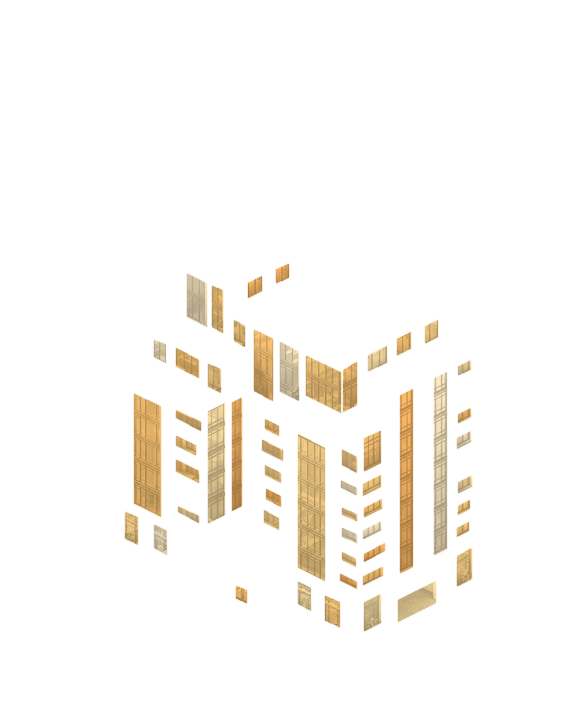
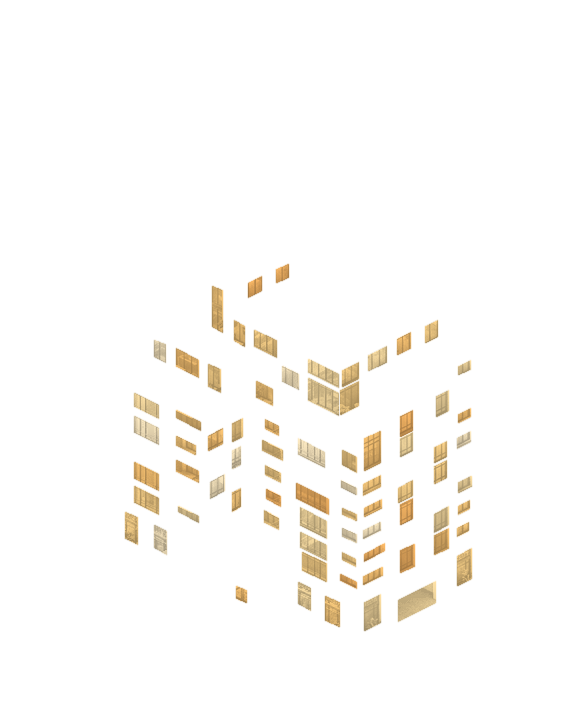
Night lights: the user's later edits (high rise, luxury condo, office, hospital)
The high rise is redrawn as many small windows with roof lamps; the
hospital's cross is a sign (the art's red) and its windows are warm.

diff --git a/plan.md b/plan.md
@@ -8,7 +8,8 @@
 ## Status
 
 - **Phase:** **Phase 10 — Construction Loop (in progress; zoom-not-swap camera + wheel overlay + opening celebration device-verified 2026-09-20)** — spec in [city_builder.md §8](city_builder.md). Phase 9 is effectively complete for content (catalog + art + land); its remaining themed-maps item stays open, its upgrade-tiers and events items are superseded/deferred by Phase 10, and the price-tuning-by-playtest next action carries into Phase 10 (prices are now the *total* a site is paid down to). Phase 9 as it stood: Rich Implementation & Graphics (in progress). Implementing the [city_builder.md](city_builder.md) catalog: **all 55 §3 buildings wired and sprite-backed** (added `gym` — services, 2×2, unlocked by `sports_field`, single variant) (71/73 beats — the 2 missing are the ratio-warning beats needing the §7 TriggerRule extension), `train_station` dropped (the rail can't be drawn coherently). Road-tile sprites done, non-square footprints fixed (#90), **land expansion shipped (device-verified)**, ✅-marker sync script live. **All sprites now affine-fit their footprints** — the original 16 dimension-mismatch flags are all cleared (15 by NB regeneration, `clinic` by re-footprinting 2×1); no squash placeholders remain. Phase 8 (the city_builder.md design doc) is complete. Phase 7's headless work is complete; the remaining device-verification sweep is owed — now doable on the local Android emulator (the web-sandbox no-emulator blocker no longer applies). Phase 6 left two deliberately-deferred sub-tracks: (a) selective DeepMind expansion (variety only, optional); (b) adaptive-system + mix-policy tuning (needs playtest data first). Live counts for the curriculum are in [curriculum.md](curriculum.md).
-- **Last updated:** 2026-10-03 (night lights: glows are warm, a new Sign kind keeps the art's colour)
+- **Last updated:** 2026-10-03 (night lights: the user's later edits to four sprites)
+- **Latest (2026-10-03, direct to `main`):** the user's further light edits committed — the high rise redrawn as many small windows with roof lamps, the luxury condo, an office building, two more hospital glows; the hospital's cross is a sign again (red, the art's colour) with its windows warm. Now 1,229 windows, 70 glows, 23 signs, 128 lamps.
 - **Last action (2026-10-03, direct to `main`):** **Night lights: glows go warm; signs keep their colour.** The user wanted every light warm except signs (the clinics' and hospital's crosses). "Glow" meant two things: windows that stay on all night, and things with a colour of their own. Now three shape kinds in [regions.json](tools/night_lights/regions.json): `w` window (warm, room hours), `g` glow (warm, all night), `s` **sign** (the art's own colour, all night). `build.py` writes a sign to `lights.json` as a glow, so the app is unchanged. Of the user's 91 glows, 23 became signs — the crosses and the clinic's glass sign panel (8), the aquarium's tanks and dome (8), the power station's plasma core (5), the reactor dome (2) — and 68 stay glows, now warm (clinic, hospital, fire and police station windows). The tanks, plasma and dome were kept in colour on my judgment after rendering both: warm turns them into flat orange panels. Review page: a third **Sign** button, G steps window → glow → sign. Browser tests 23 + 34 checks; no Dart change; 1178 tests pass.
 - **Prior action (2026-10-03, direct to `main`):** **Window lights: warm shades only.** The window palette in [nl_common.py](tools/night_lights/nl_common.py) had a neutral white and a cool blue-white among its eight colours for variety (303 of the 1,128 windows); the user found the blue ones an eyesore. Both are now warm (pale gold to amber) and all 87 lit sprites are re-baked (62 PNGs changed). Glows are untouched: they keep the art's own colour, so the 38 glows drawn on blue glass (aquarium, clinics, hospital, power plant, power station) still come out blue — the user's call whether those should be warmed too. No Dart change; 1178 tests pass; checked on the Pixel 7 AVD at 8 pm.
 - **Prior action (2026-10-03, direct to `main`):** **Street lanterns: kerbs on a checkerboard, not straight tiles only.** The user spotted a part of Sam's town with no lamps at all. Cause, measured on the town pulled from the emulator's database: [lampSpots](lib/domain/city/street_lamps.dart) lit only straight tiles on even coordinates, and the road rings round neighbouring buildings merge into two-tile-wide roads and tight grids where every tile is a junction (37 junctions, 25 bends, 7 dead ends, 26 odd straights against 24 lit tiles of 119) — the built-up middle got the fewest lamps. Now: every other road tile in a checkerboard, at a **kerb** (a side with no road beyond it), so T-junctions, wide roads, bends and dead ends are lit and only crossings stay clear; a lamp within one tile of an earlier one takes the tile's other kerb or is dropped (no doubled lamps inside bends). Sam's town: 24 → 52 lamps, even coverage. Tests rewritten (+8, **1178 pass**), analyze clean, device-verified at 8 pm. Also committed the user's later light edits (aquarium, power plant: ten windows became glows).
